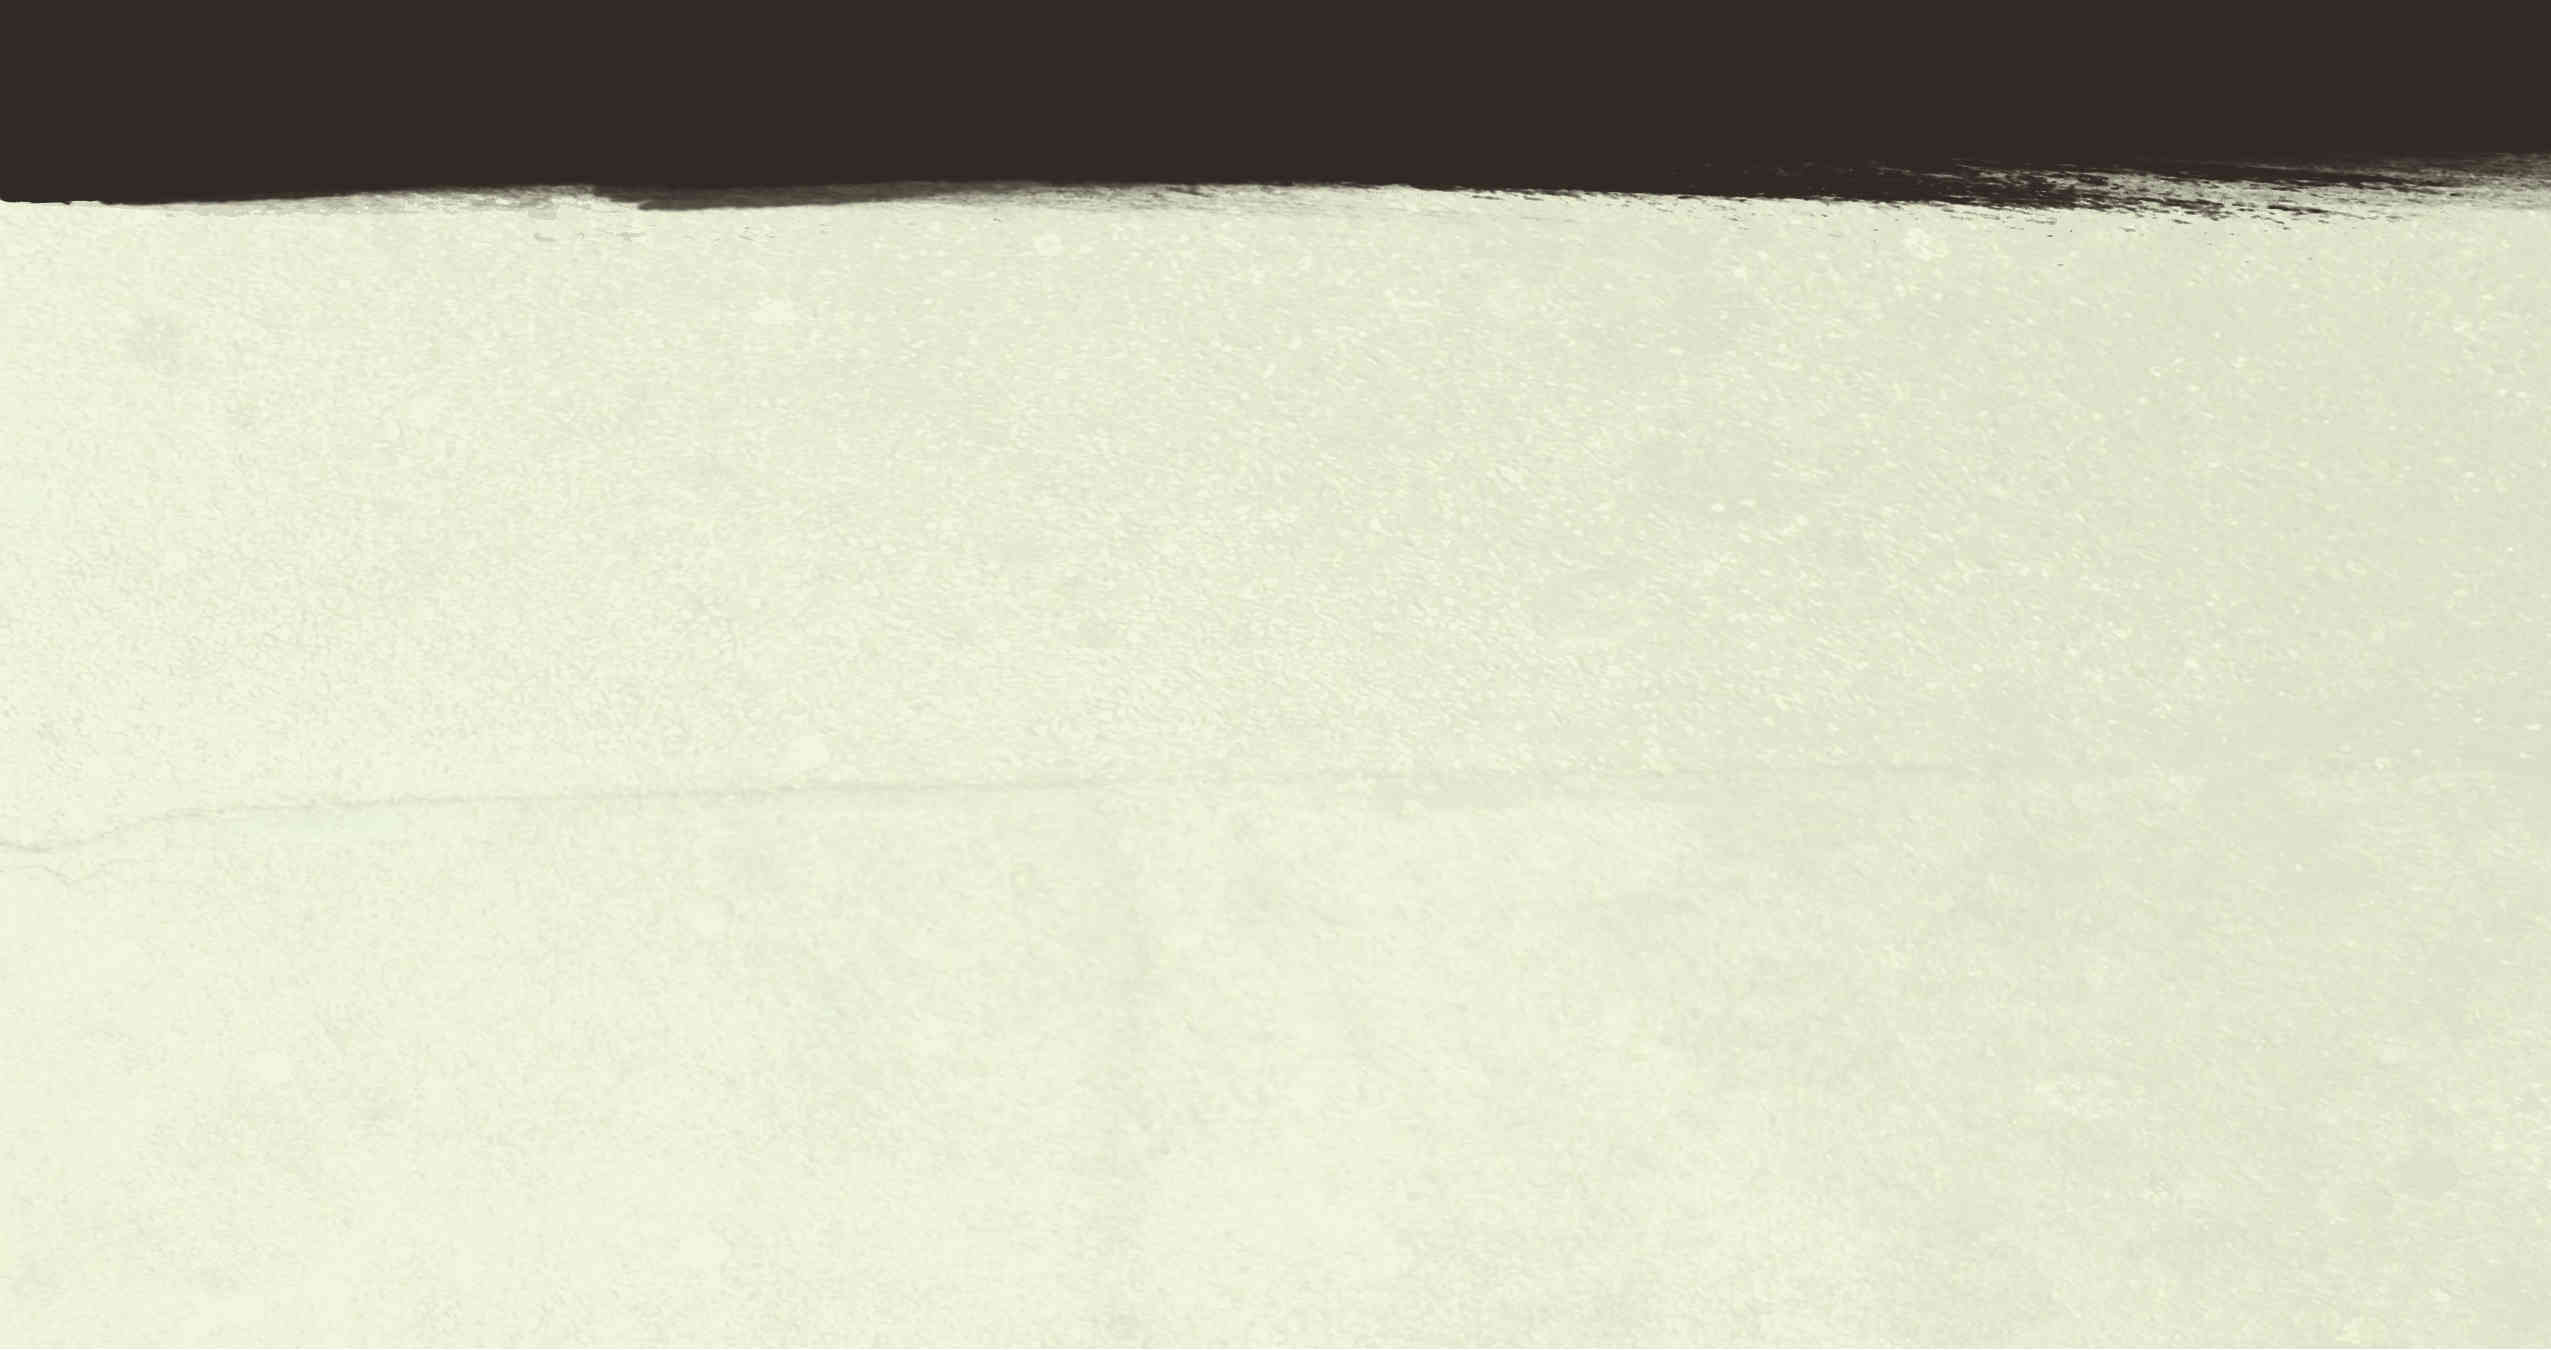
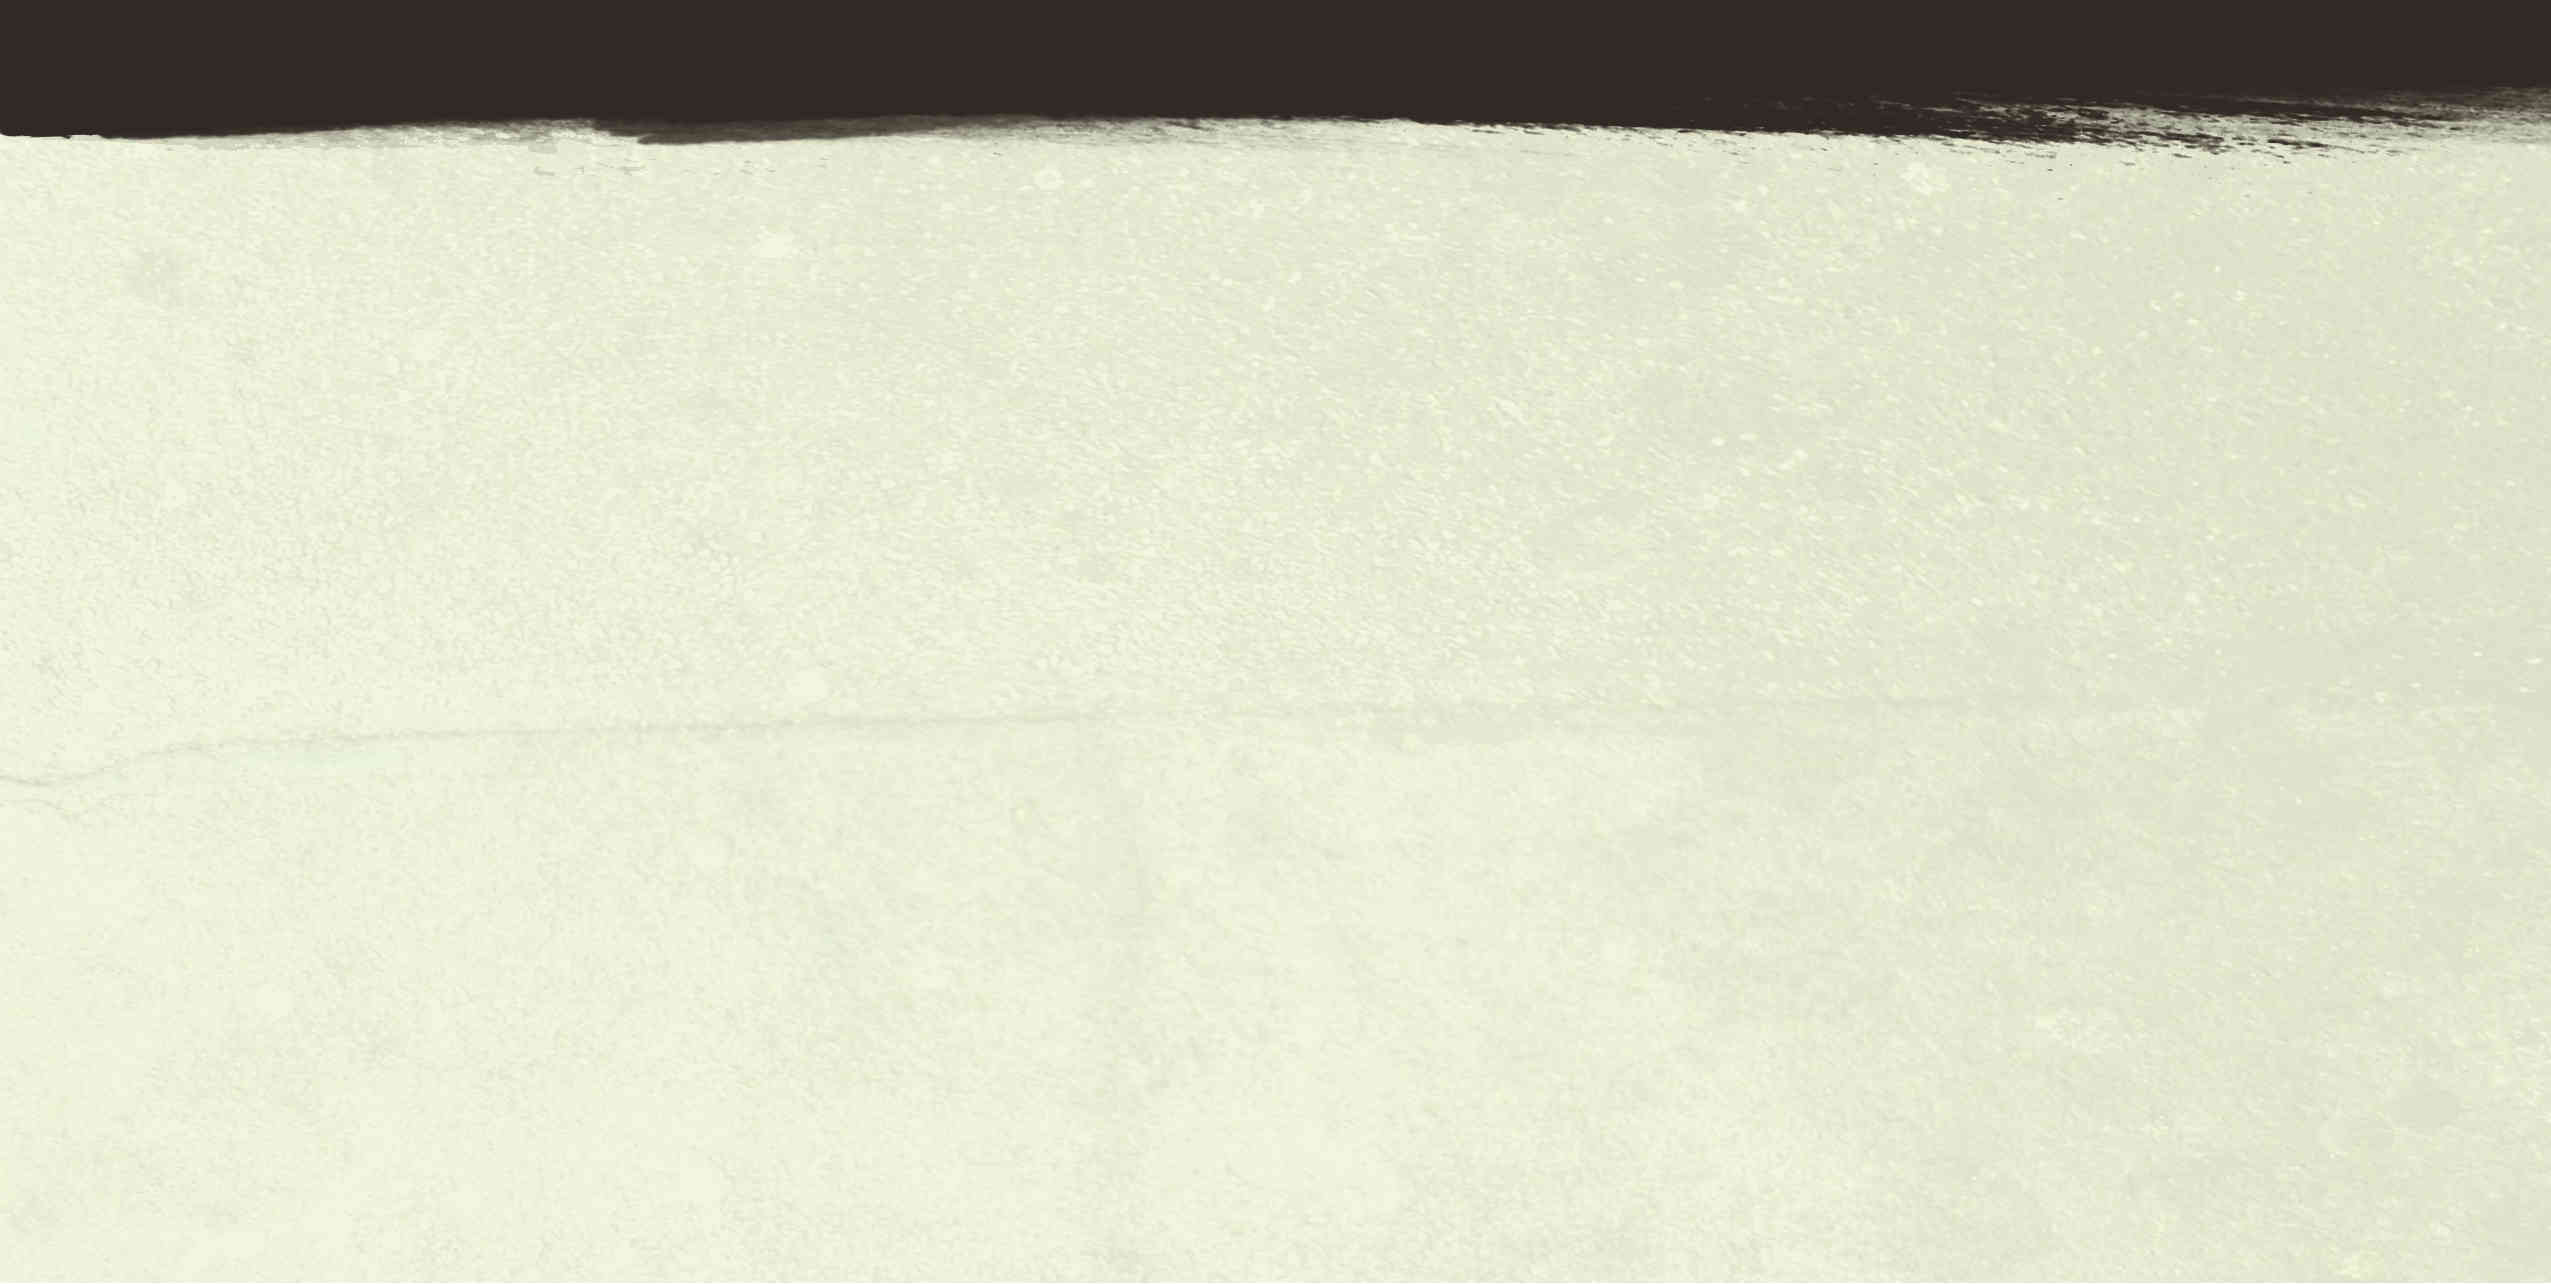
Changed header color

Changed region(s): [[0.0, 0.0623, 1.0, 0.1869]]

diff --git a/index.html b/index.html
@@ -18,9 +18,10 @@
 	<br />
 	<p><a href="#route" class="scroll">Klik hier voor de routebeschrijving.</a></p>
 </div>
-<div id="route" align="center">
+<div id="route">
 	<h1>Routebeschrijving</h1>
-	<iframe width="625" height="550" frameborder="0" scrolling="no" marginheight="0" marginwidth="0" src="https://maps.google.nl/maps?f=q&amp;source=s_q&amp;hl=nl&amp;geocode=&amp;q=Duivenkamp+844,+Maarssen&amp;aq=0&amp;oq=Duivenkamp+844,&amp;sll=52.469397,5.509644&amp;sspn=2.195301,6.350098&amp;t=h&amp;ie=UTF8&amp;hq=&amp;hnear=Duivenkamp+844,+Maarssen,+Utrecht&amp;ll=52.130666,5.02641&amp;spn=0.008641,0.024805&amp;z=14&amp;iwloc=A&amp;output=embed"></iframe>
+	<div class="google">
+		<iframe width="625" height="550" frameborder="0" scrolling="no" marginheight="0" marginwidth="0" src="https://maps.google.nl/maps?f=q&amp;source=s_q&amp;hl=nl&amp;geocode=&amp;q=Duivenkamp+844,+Maarssen&amp;aq=0&amp;oq=Duivenkamp+844,&amp;sll=52.469397,5.509644&amp;sspn=2.195301,6.350098&amp;t=h&amp;ie=UTF8&amp;hq=&amp;hnear=Duivenkamp+844,+Maarssen,+Utrecht&amp;ll=52.130666,5.02641&amp;spn=0.008641,0.024805&amp;z=14&amp;iwloc=A&amp;output=embed"></iframe></div>
 	<p><a href="#home" class="scroll">Terug naar boven</a></p>
 </div>
 

diff --git a/css/style.css b/css/style.css
@@ -35,7 +35,7 @@ h1 {
 	font-size: 16px;
 	line-height: 25px;
 	color: #302822;
-	background:#ffffff url('../images/background.jpg') repeat right top;
+	background:#ffffff url('../images/background.jpg') no-repeat right top;
 	height: 1200px;
 }
 #route a, a:visited {
@@ -45,6 +45,8 @@ h1 {
 	color: #302822;
 	text-decoration: none;
 }
-
+iframe {
+	margin-top: 50px;
+}
 
 
